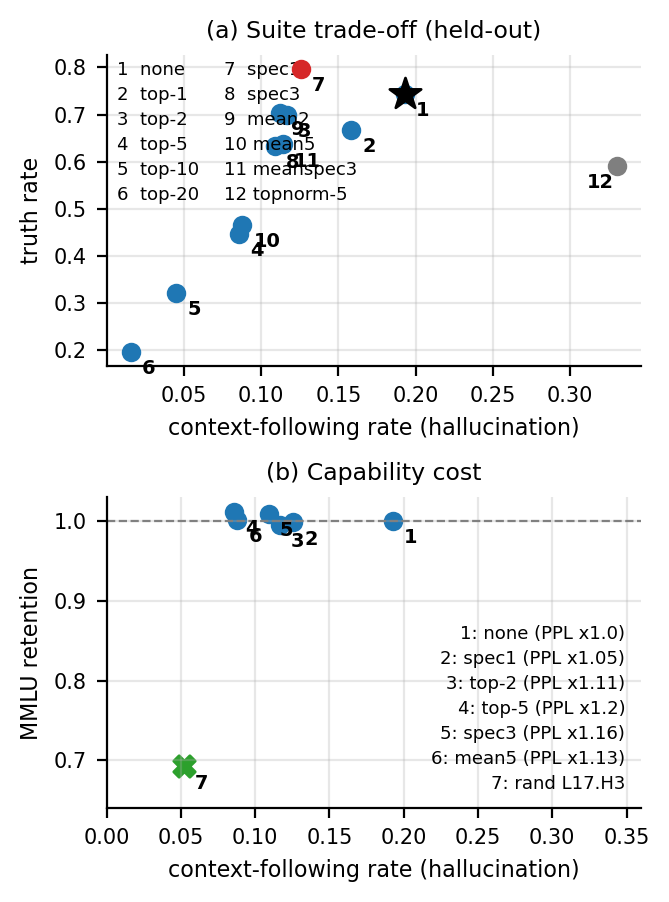
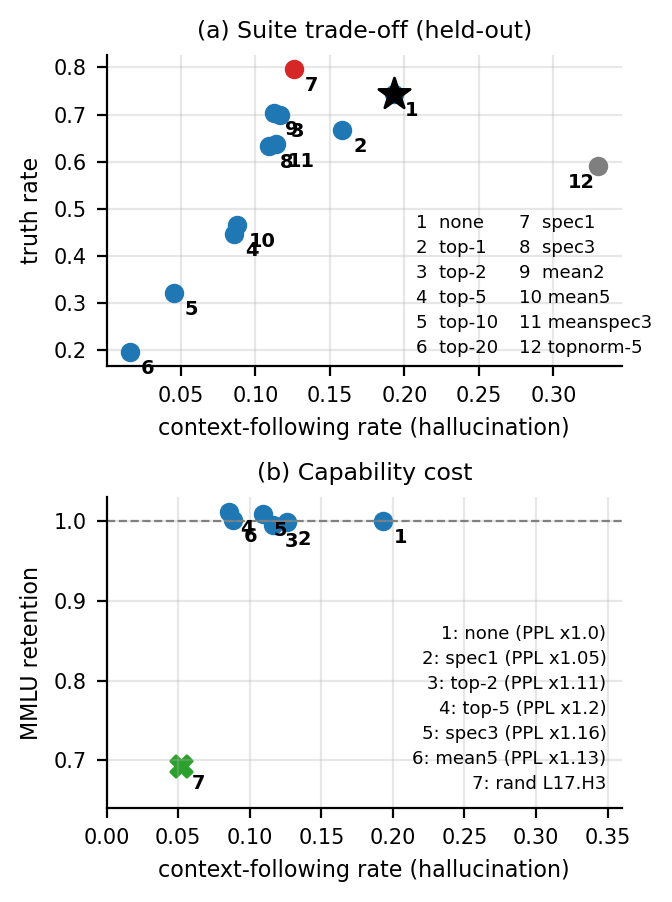
fig4(a): key moved to lower-right, clear of data points

diff --git a/scripts/make_figures.py b/scripts/make_figures.py
@@ -97,10 +97,10 @@ def fig4():
                     fontweight="bold", xytext=off, textcoords="offset points")
     key_l = "1  none\n2  top-1\n3  top-2\n4  top-5\n5  top-10\n6  top-20"
     key_r = "7  spec1\n8  spec3\n9  mean2\n10 mean5\n11 meanspec3\n12 topnorm-5"
-    ax.text(0.02, 0.98, key_l, transform=ax.transAxes, fontsize=6.5,
-            va="top", ha="left", linespacing=1.5)
-    ax.text(0.22, 0.98, key_r, transform=ax.transAxes, fontsize=6.5,
-            va="top", ha="left", linespacing=1.5)
+    ax.text(0.60, 0.03, key_l, transform=ax.transAxes, fontsize=6.5,
+            va="bottom", ha="left", linespacing=1.5)
+    ax.text(0.80, 0.03, key_r, transform=ax.transAxes, fontsize=6.5,
+            va="bottom", ha="left", linespacing=1.5)
     ax.set(xlabel="context-following rate (hallucination)", ylabel="truth rate",
            title="(a) Suite trade-off (held-out)")
 
